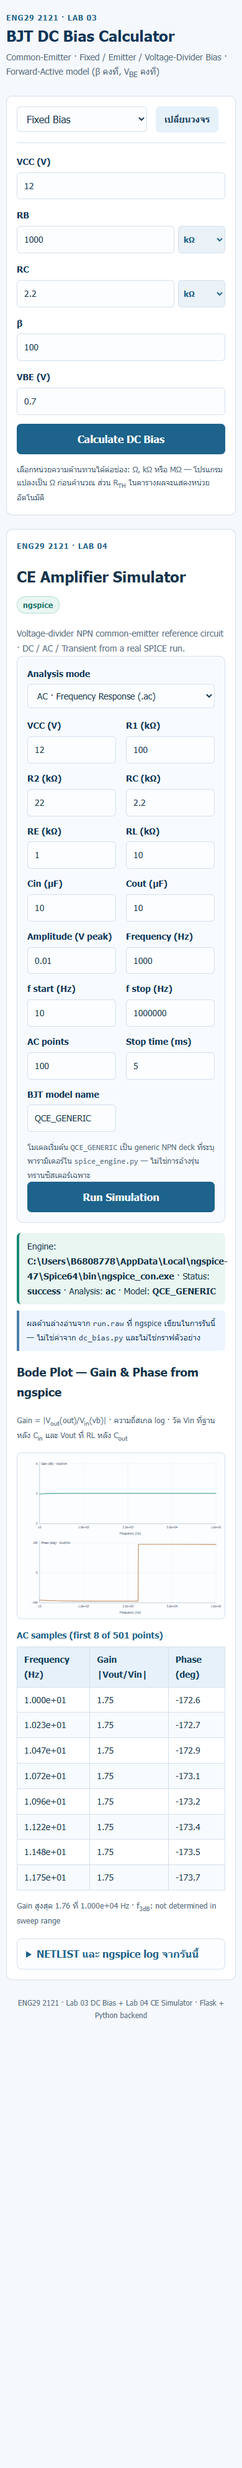
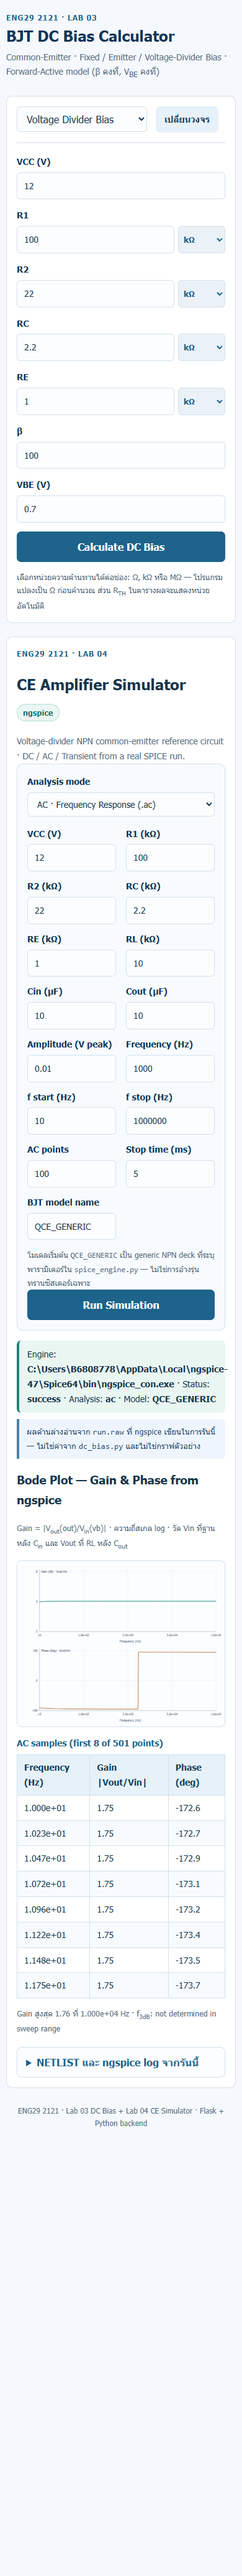
docs: verify B8 UI on desktop and phone viewport in all modes

diff --git a/docs/validation.md b/docs/validation.md
@@ -197,9 +197,15 @@ python -m unittest discover -s tests
 | B6 · Emitter | เปลี่ยน source แล้ว Run `.tran` ซ้ำ | เดียวกัน | `SIN(0 0.02 2000)`; Vin **0.0199 V**, Vout **0.0351 V**, gain **1.76** | [`emitter`](screenshots/lab04-b6-change-source-emitter.png) | **PASS** |
 | B6 · Divider | เปลี่ยน source แล้ว Run `.tran` ซ้ำ | เดียวกัน | `SIN(0 0.02 2000)`; Vin **0.0199 V**, Vout **0.0351 V**, gain **1.76** | [`divider`](screenshots/lab04-b6-change-source-divider.png) + [`b6`](screenshots/lab04-b6-change-source.png) | **PASS** |
 | B7 | ใส่ RE=0 แล้ว submit | `sim_re = 0` | เห็น `ข้อมูลไม่ถูกต้อง sim_re: ต้องมากกว่า 0`, HTTP 400, **ไม่มี** `#sim-results` | [`b7`](screenshots/lab04-b7-invalid.png) | **PASS** |
-| B8 | เปิด desktop + สลับโหมด แล้ว Run AC | viewport 1333 px (`clientW` 1313) | `mode=fixed` ค้างหลังรัน (`hidden lab_mode`), `matchMedia(max-width:560px)=false`, `scrollWidth==clientWidth` ไม่มี horizontal cut; ปุ่ม 14/16 px อยู่ในจอ; SVG 918.7 px พร้อมแกน `Frequency (Hz)`, `Gain (dB)`, `Phase (deg)` | [`b8-desktop`](screenshots/lab04-b8-ui-desktop.png) | **PASS** (desktop) |
-| B8 | iframe กว้าง 390 px ใน Browser Tool + สลับโหมด แล้ว Run AC | `innerW=390`, `clientW=375`, `matchMedia(max-width:560px)=true` | `mode=fixed`, `scrollWidth==clientWidth` ไม่มี horizontal cut; `.plot svg` เหลือ 307 px (`min-width:0`), ปุ่ม `Run Simulation` right=331 px; แกน/หน่วยเหมือน desktop | [`b8-mobile`](screenshots/lab04-b8-ui-mobile.png) — ครอปจาก iframe จริง ไม่ใช่ device emulation หรือ Playwright MCP | **PASS** (narrow viewport) |
+| B8 · Desktop · Fixed | เปิด `/?mode=divider` → เปลี่ยน select เป็น **fixed** → Run AC | `innerW=1333`, `clientW=1313` | หลังเปลี่ยน `data-mode=fixed` + hidden `lab_mode=fixed` ค้างหลังรัน, `Status: success`; `scrollWidth==clientWidth` **ไม่มีเนื้อหาถูกตัด**; ปุ่ม 14/16 px right ≤ 1100; SVG 919×363 พร้อมแกน/หน่วย `Frequency (Hz)`, `Gain (dB)·Vout/Vin`, `Phase (deg)` | [`desktop-fixed`](screenshots/lab04-b8-ui-desktop-fixed.png) | **PASS** |
+| B8 · Desktop · Emitter | เปิด `/?mode=fixed` → เปลี่ยนเป็น **emitter** → Run AC | เดียวกัน | `data-mode=emitter` ค้างหลังรัน, `Status: success`; `scrollWidth==clientWidth`; ปุ่ม/แกน/หน่วยอ่านได้เหมือน fixed | [`desktop-emitter`](screenshots/lab04-b8-ui-desktop-emitter.png) | **PASS** |
+| B8 · Desktop · Divider | เปิด `/?mode=emitter` → เปลี่ยนเป็น **divider** → Run AC | เดียวกัน | `data-mode=divider` ค้างหลังรัน, `Status: success`; `scrollWidth==clientWidth`; ปุ่ม/แกน/หน่วยอ่านได้เหมือน fixed | [`desktop-divider`](screenshots/lab04-b8-ui-desktop.png) | **PASS** |
+| B8 · Phone · Fixed | iframe กว้าง 390 px → เปลี่ยนเป็น **fixed** → Run AC | `innerW=390`, `clientW=375`, `matchMedia(max-width:560px)=true` | `data-mode=fixed` ค้างหลังรัน, `Status: success`; `scrollWidth==clientWidth` **ไม่มีเนื้อหาถูกตัด**; ปุ่ม 14/16 px right ≤ 348; SVG ย่อเหลือ 307×121 (`min-width:0`) แต่แกน/หน่วยยังอ่านได้ | [`phone-fixed`](screenshots/lab04-b8-ui-mobile-fixed.png) | **PASS** (narrow viewport) |
+| B8 · Phone · Emitter | เปลี่ยนเป็น **emitter** → Run AC | เดียวกัน | `data-mode=emitter` ค้างหลังรัน, `Status: success`; `scrollWidth==clientWidth`; กราฟ/ปุ่ม/หน่วยอ่านได้ | [`phone-emitter`](screenshots/lab04-b8-ui-mobile-emitter.png) | **PASS** (narrow viewport) |
+| B8 · Phone · Divider | เปลี่ยนเป็น **divider** → Run AC | เดียวกัน | `data-mode=divider` ค้างหลังรัน, `Status: success`; `scrollWidth==clientWidth`; กราฟ/ปุ่ม/หน่วยอ่านได้ | [`phone-divider`](screenshots/lab04-b8-ui-mobile.png) | **PASS** (narrow viewport) |
 | Playwright MCP | ทุก case ตามใบงาน Lab 3 | — | ต้องเห็น tool ก่อนเริ่ม | ไม่พบ Playwright MCP ใน session นี้ → ใช้ OpenCode Browser Tool แทนตามเงื่อนไขที่อนุญาต | — | **NOT RUN** |
+
+B8 ใช้ **OpenCode Browser Tool** เพราะ Playwright MCP ไม่มีใน session: desktop เป็นแท็บเบราว์เซอร์จริง ส่วน "phone" คือ iframe กว้าง 390 px (มี scrollbar → `clientW=375`) **ไม่ใช่ device emulation ของ Playwright**; ภาพทั้ง 6 เป็น screenshot จริงของหน้า Flask หลังเปลี่ยนโหมดและรัน AC แล้ว
 
 หมายเหตุ B4/B5/B6: netlist ใน `spice_engine.py` เป็น **voltage-divider CE reference circuit** เพียง deck เดียว (R1/R2/RC/RE/RL/Cin/Cout) — ตัวเลือก Fixed/Emitter/Divider ของ Lab 03 เป็นคนละส่วนกับ simulator และไม่เปลี่ยนโทโพโลยี SPICE ดังนั้น Bode (B4) และ waveform (B5/B6) ของทั้ง 3 โหมดต้องเท่ากันโดยออกแบบ ไม่ใช่กราฟ hard-code หรือผลที่ copy ใส่; ทุกกราฟมาจาก `run.raw` ของรันจริงในแต่ละแท็บ (engine `ngspice_con.exe`, Status `success`, Model `QCE_GENERIC`) B6 เปลี่ยน source จริงจึงได้ waveform ใหม่ตาม `SIN(0 0.02 2000)` ที่ปรากฏใน NETLIST ของแต่ละรัน
 

diff --git a/README.md b/README.md
@@ -123,7 +123,7 @@ BJT model `QCE_GENERIC` = `NPN(IS=1E-14 BF=200 VAF=100 RB=10 CJC=3.5P CJE=8P TF=
 **สถานะเครื่องที่ใช้ตรวจ:** ติดตั้ง ngspice-47 (console) แล้วที่
 `C:\Users\B6808778\AppData\Local\ngspice-47\Spice64\bin\ngspice_con.exe` และตั้ง
 `NGSPICE_PATH` ระดับผู้ใช้; รัน DC/AC/Transient จริงผ่านหน้าเว็บแล้ว ดูผล B1–B8
-(รวม B3 ทั้ง Fixed/Emitter/Divider + SPICE, B4 AC/Bode, B5/B6 Transient ทั้ง 3 โหมด, และ B8 desktop + narrow iframe 390 px) พร้อม screenshot และข้อความ error ก่อนติดตั้ง engine ได้ใน
+(รวม B3 ทั้ง Fixed/Emitter/Divider + SPICE, B4 AC/Bode, B5/B6 Transient ทั้ง 3 โหมด, และ B8 desktop + phone/narrow 390 px ทุกโหมด) พร้อม screenshot และข้อความ error ก่อนติดตั้ง engine ได้ใน
 [`docs/validation.md`](docs/validation.md) (Playwright MCP ไม่มีใน session นี้
 จึงบันทึก NOT RUN และใช้ OpenCode Browser Tool แทน — ไม่ได้อ้างว่าเป็น Playwright)
 
